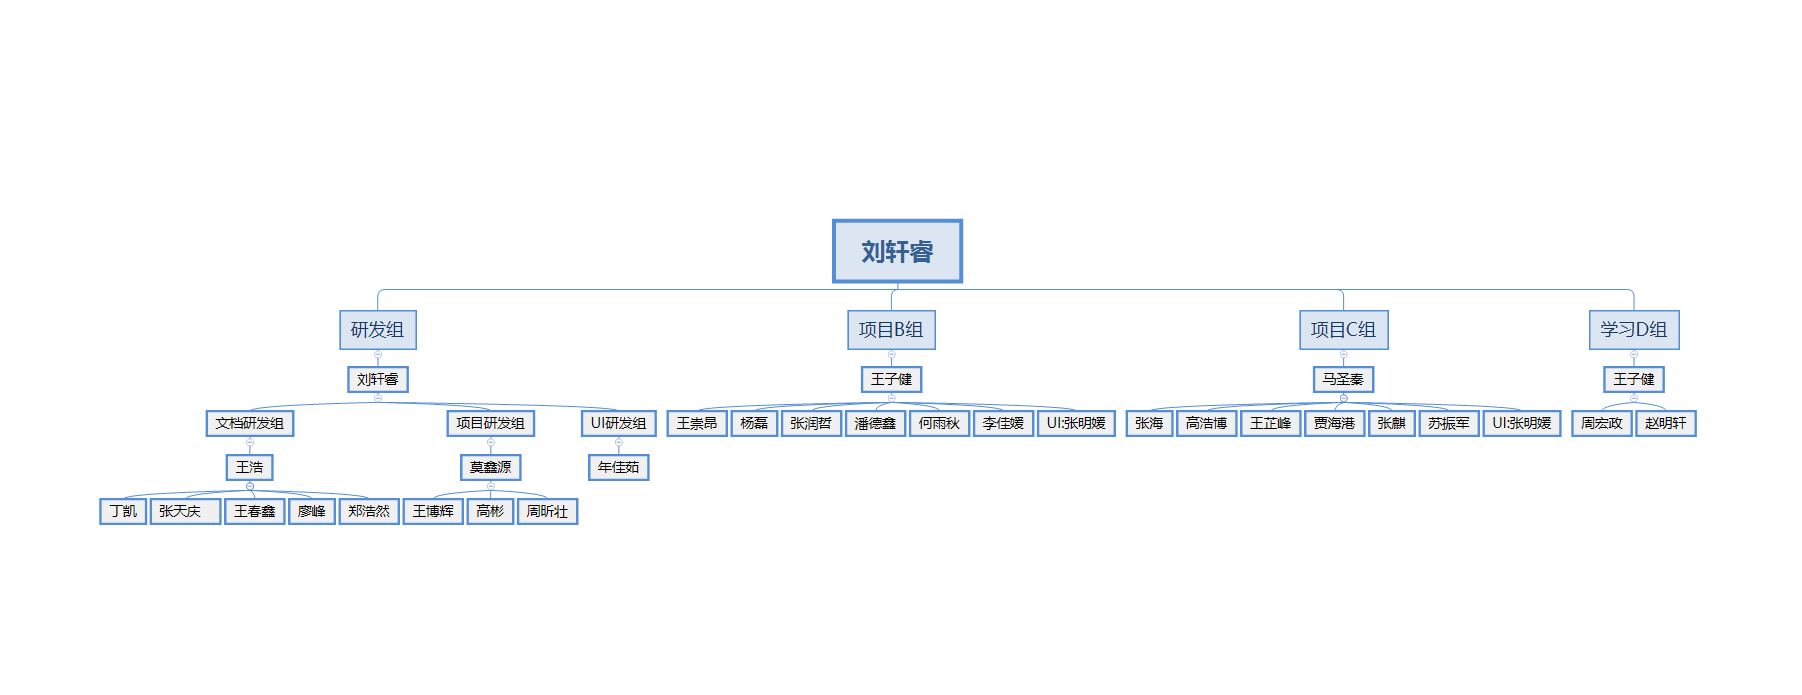
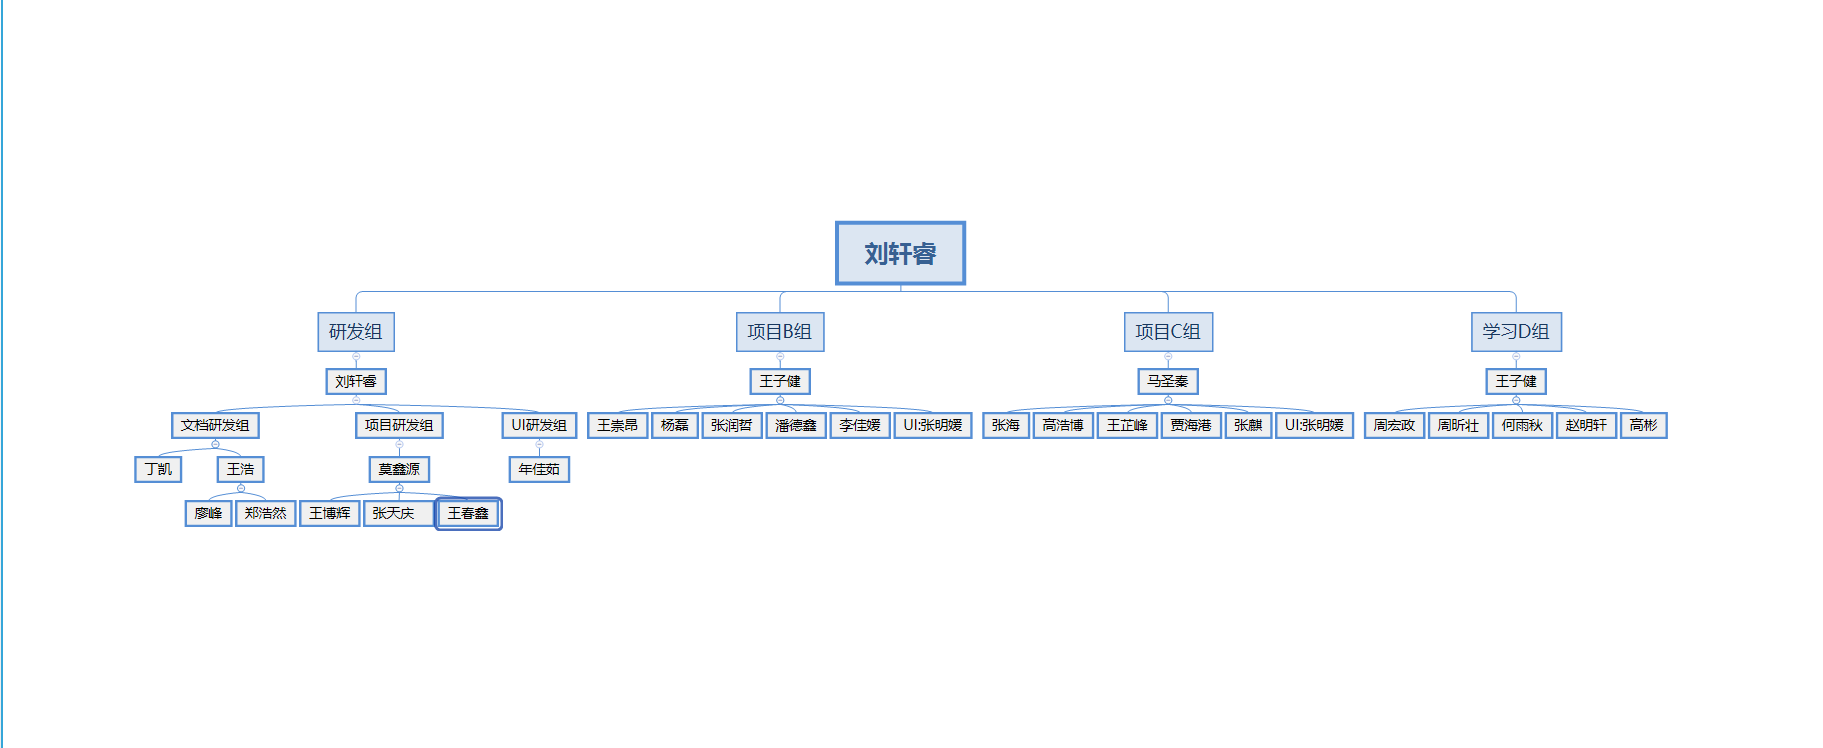
更新

Changed region(s): [[0.0622, 0.2719, 0.9634, 0.7554]]

diff --git a/document/S-QSQ-XMB-项目部成员设备表单.md b/document/S-QSQ-XMB-项目部成员设备表单.md
@@ -4,8 +4,7 @@
 周宏政 |  | 1 | |  | |	
 马圣秦   | 1 | 1 | 1 | 1 |  |	鼠标垫自带
 张明媛 | 1 | 1 | 1 | 1 |  |	鼠标垫自带
-苏振军 | 1 | 1 | 1 | 1|  1 |	
 张天庆 |   |   | 1 | 1 |   |	键盘鼠标自带
 李佳媛 | 1  | 1  | 1 | 1 | 1  |	
 赵明轩 | 1  | 1  | 1 | 1 |   |	鼠标垫自带
-统计   | 5 | 6	| 6	| 6 |   2   |	
+统计   | 4 | 5	| 5	| 5 |   1   |	

diff --git a/document/S-QSQ-XMB-项目部人员名单.md b/document/S-QSQ-XMB-项目部人员名单.md
@@ -25,11 +25,10 @@ SW1005 | 21	|王子健	|
 SW1005 | 22	|贾海港	|
 SW1005 | 23	|王芷烽	|
 SW1005 | 24	|张麒	|
-sw1004 | 25 | 苏振军 |
-sw1004 | 26 | 李佳媛 |
-gz1001 | 27	|何雨秋	|
-sw1005 | 28 | 高彬 |     
-sw1004 | 29 | 赵明轩 |     
+sw1004 | 25 | 李佳媛 |
+gz1001 | 26	|何雨秋	|
+sw1005 | 27 | 高彬 |     
+sw1004 | 28 | 赵明轩 |     
 
 
 
